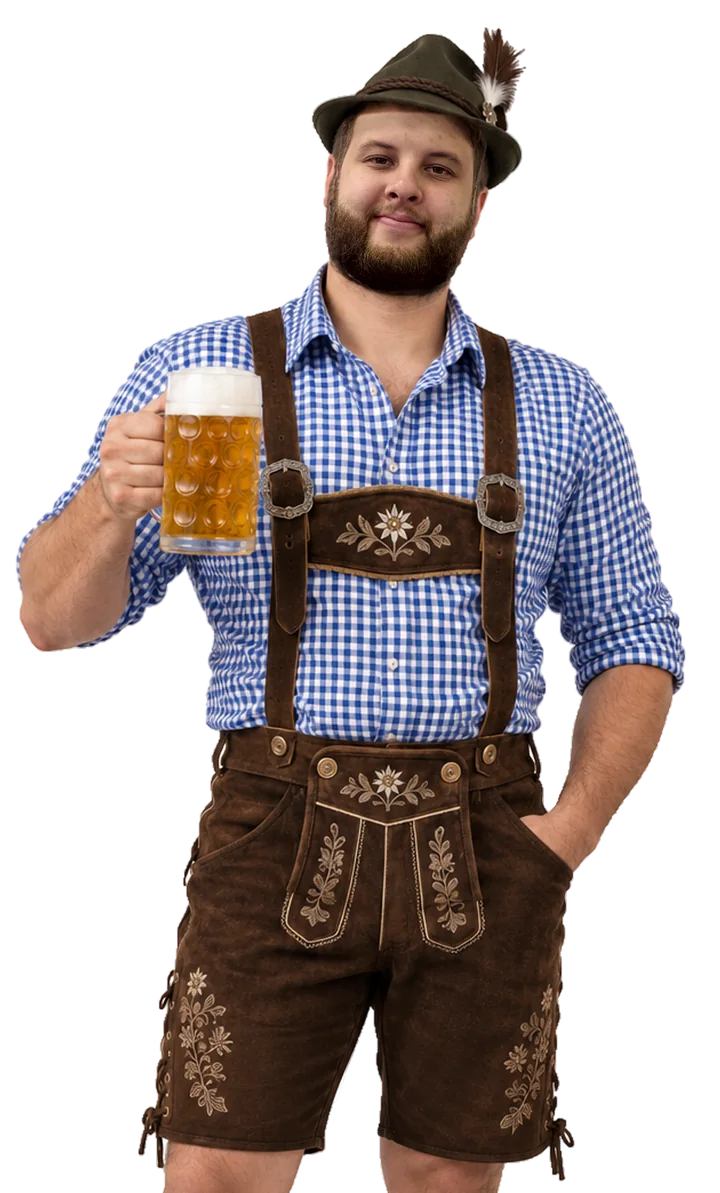
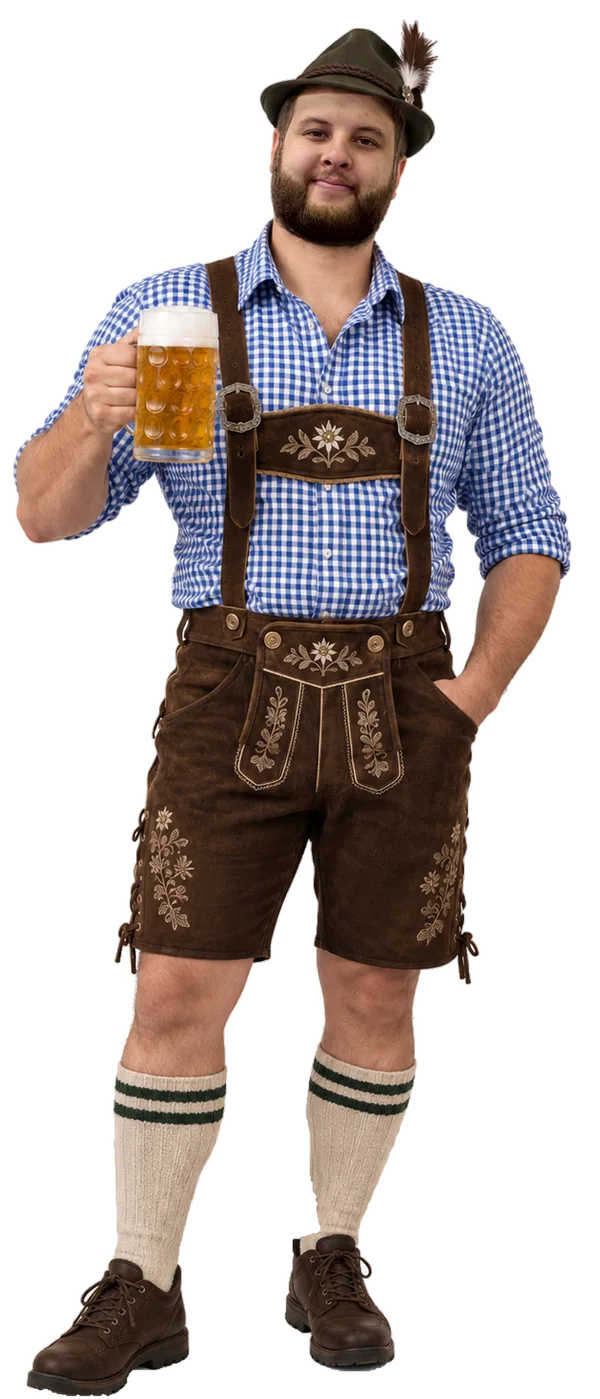
Шапка: фото в полный рост, вторая кружка без руки, готовность к замене фото
- Фото именинника показано целиком (от шляпы до ботинок) и вписано
  в высоту экрана на компьютере; под ботинками — мягкая тень.
- Убрана рука гостя, торчавшая из груди: при прокрутке въезжает только
  кружка со стеклянной ручкой и чокается с кружкой именинника.
- Положение кружки и пропорции фото вынесены в CSS-переменные
  (--ratio, --mug-x, --mug-y, --mug-w); режимы data-photo="framed"
  для фото с фоном и data-clink="off" для фото без кружки.
- README: раздел «Как заменить фото».

Claude-Session: https://claude.ai/code/session_01Wd8RQnCot6PS9kCBHuaYR1

diff --git a/index.html b/index.html
@@ -119,10 +119,18 @@ h2{font:800 clamp(1.875rem,3.6vw,2.6rem)/1.1 var(--f-display);letter-spacing:.01
 .hero-cta{display:flex;flex-wrap:wrap;align-items:center;gap:12px 18px}
 .cta-note{color:var(--muted);font-size:.9375rem;max-width:26ch}
 
-.stage{grid-area:stage;position:relative;justify-self:center;align-self:end;width:min(100%,430px,calc((100vh - 150px) / 1.657))}
-@supports (height:100svh){.stage{width:min(100%,430px,calc((100svh - 150px) / 1.657))}}
+/* Сцена с фото. Если поменяете фото, поправьте числа ниже:
+   --ratio — высота фото, делённая на ширину; --mug-x — правый край кружки, --mug-y — верх пены,
+   --mug-w — ширина кружки (в процентах от ширины и высоты фото). Подробно — в README. */
+.stage{grid-area:stage;position:relative;justify-self:center;align-self:end;--ratio:2.332;--mug-x:36.35%;--mug-y:21.9%;--mug-w:13.97%;width:min(100%,340px,calc((100vh - 130px) / var(--ratio)))}
+@supports (height:100svh){.stage{width:min(100%,340px,calc((100svh - 130px) / var(--ratio)))}}
+/* Фото с фоном (не вырезанное): data-photo="framed" — фото в белой рамке, без подставки. */
+.stage[data-photo="framed"] .coaster,.stage[data-photo="framed"] .duo::after{display:none}
+.stage[data-photo="framed"] .host{border:8px solid #FFFFFF;border-radius:6px;box-shadow:0 22px 40px -22px rgba(42,28,18,.55);transform:rotate(-2deg);animation:none}
+/* На фото нет кружки: data-clink="off" — без второй кружки и брызг, «Prost!» остаётся. */
+.stage[data-clink="off"] .guest,.stage[data-clink="off"] .splash{display:none}
 .stage::before{content:"";position:absolute;inset:-6% -14% 0;border-radius:50%;background:radial-gradient(closest-side,var(--glow),transparent);pointer-events:none}
-.coaster{position:absolute;left:-4%;top:7%;width:108%;aspect-ratio:1;border-radius:50%}
+.coaster{position:absolute;left:-12.5%;top:2.4%;width:125%;aspect-ratio:1;border-radius:50%}
 .c-rays{position:absolute;inset:7%;border-radius:50%;background:repeating-conic-gradient(from 0deg,#FFE6AE 0deg 7.5deg,#FFF6E3 7.5deg 15deg);box-shadow:inset 0 0 0 3px #FFFFFF,inset 0 0 40px rgba(217,137,18,.25);animation:spin 80s linear infinite}
 .c-ring{position:absolute;inset:0;width:100%;height:100%;overflow:visible}
 .c-band{fill:none;stroke:#1D62AE;stroke-width:30}
@@ -132,19 +140,22 @@ h2{font:800 clamp(1.875rem,3.6vw,2.6rem)/1.1 var(--f-display);letter-spacing:.01
 
 /* именинник (фото) и кружка гостя */
 .duo{position:relative;z-index:1;will-change:transform}
-.host{display:block;width:100%;height:auto;transform-origin:50% 100%;-webkit-mask-image:linear-gradient(to bottom,#000 85%,transparent 99%);mask-image:linear-gradient(to bottom,#000 85%,transparent 99%);animation:breathe 4.8s ease-in-out infinite}
+.duo::after{content:"";position:absolute;left:0;right:24%;bottom:-1.6%;height:3.2%;border-radius:50%;background:radial-gradient(closest-side,rgba(42,28,18,.3),transparent);z-index:-1}
+.host{display:block;width:100%;height:auto;transform-origin:50% 100%;animation:breathe 4.8s ease-in-out infinite}
 @keyframes breathe{0%,100%{transform:scale(1)}50%{transform:scale(1.008)}}
-.guest{position:absolute;left:34.4%;top:30.2%;width:28.3%;opacity:0;will-change:transform,opacity}
-.guest img{display:block;width:100%;height:auto;transform-origin:20% 30%;filter:drop-shadow(0 10px 12px rgba(42,28,18,.28))}
-.say{position:absolute;left:5%;top:16.5%;width:31%;height:auto;overflow:visible;transform:rotate(-6deg) scale(0);transform-origin:57% 96%;opacity:0;transition:transform .45s cubic-bezier(.3,1.6,.5,1),opacity .2s;pointer-events:none;filter:drop-shadow(0 8px 10px rgba(42,28,18,.3))}
+.guest{position:absolute;left:calc(var(--mug-x) - .6%);top:calc(var(--mug-y) + .5%);width:var(--mug-w);opacity:0;will-change:transform,opacity}
+.guest-in{position:relative;transform-origin:50% 100%;filter:drop-shadow(0 8px 10px rgba(42,28,18,.25))}
+.guest img{display:block;width:100%;height:auto}
+.guest .handle{position:absolute;left:93%;top:20%;width:42%;height:56%;overflow:visible}
+.say{position:absolute;left:-7%;top:calc(var(--mug-y) - 11.4%);width:44%;height:auto;overflow:visible;transform:rotate(-6deg) scale(0);transform-origin:57% 96%;opacity:0;transition:transform .45s cubic-bezier(.3,1.6,.5,1),opacity .2s;pointer-events:none;filter:drop-shadow(0 8px 10px rgba(42,28,18,.3))}
 .say text{font:400 44px/1 var(--f-fraktur);fill:#1D62AE}
-.splash{position:absolute;left:35.6%;top:31%;width:0;height:0}
+.splash{position:absolute;left:calc(var(--mug-x) - .2%);top:calc(var(--mug-y) + 1.2%);width:0;height:0}
 .splash i{position:absolute;left:0;top:0;width:var(--s,2.2cqw);height:var(--s,2.2cqw);margin:calc(var(--s,2.2cqw) / -2);border-radius:50%;background:#FFFDF6;box-shadow:0 0 0 1.5px rgba(42,28,18,.3);opacity:0}
 .splash i:nth-child(3n){background:#FFD25A}
 .stage{container-type:inline-size}
 .stage.is-prost .say{transform:rotate(-6deg) scale(1);opacity:1}
 .stage.is-prost .splash i{animation:splash .85s cubic-bezier(.2,.8,.3,1) both}
-.stage.is-prost .guest img{animation:clink .6s ease-out}
+.stage.is-prost .guest-in{animation:clink .6s ease-out}
 @keyframes splash{0%{opacity:1;transform:translate(0,0) scale(.3)}70%{opacity:1}100%{opacity:0;transform:translate(var(--dx),var(--dy)) scale(1)}}
 @keyframes clink{0%{transform:rotate(0)}30%{transform:rotate(-7deg)}60%{transform:rotate(3deg)}100%{transform:rotate(0)}}
 
@@ -160,7 +171,7 @@ h2{font:800 clamp(1.875rem,3.6vw,2.6rem)/1.1 var(--f-display);letter-spacing:.01
 
 @media (max-width:860px){
   .hero-grid{grid-template-columns:minmax(0,1fr);grid-template-areas:"copy" "stage" "facts";row-gap:18px}
-  .stage{width:min(86vw,380px);margin-top:4px}
+  .stage{width:min(74vw,300px);margin-top:4px}
   .hero-copy{align-self:start}
   .deco.d-opt{display:none}
 }
@@ -435,8 +446,11 @@ textarea.input{resize:vertical;min-height:104px}
         </svg>
       </div>
       <div class="duo" id="duo">
-        <img class="host" id="host" src="assets/host-tracht.webp" width="720" height="1193" alt="Именинник в баварском костюме: шляпа с пером, рубашка в клетку, кожаные шорты на подтяжках, в руке кружка пива" fetchpriority="high">
-        <div class="guest" id="guest" aria-hidden="true"><img src="assets/guest-mug.webp" width="260" height="307" alt=""></div>
+        <img class="host" id="host" src="assets/host-tracht.webp" width="600" height="1399" alt="Именинник в баварском костюме: шляпа с пером, рубашка в клетку, кожаные шорты на подтяжках, в руке кружка пива" fetchpriority="high">
+        <div class="guest" id="guest" aria-hidden="true"><div class="guest-in">
+          <img src="assets/guest-mug.webp" width="160" height="292" alt="">
+          <svg class="handle" viewBox="0 0 40 60" focusable="false"><path d="M2 6C26 4 34 16 34 30S26 56 2 54" fill="none" stroke="rgba(96,120,134,.55)" stroke-width="11" stroke-linecap="round"/><path d="M2 6C26 4 34 16 34 30S26 56 2 54" fill="none" stroke="rgba(244,250,252,.92)" stroke-width="7" stroke-linecap="round"/><path d="M6 10C24 10 29 20 29 30" fill="none" stroke="#FFFFFF" stroke-width="2" stroke-linecap="round"/></svg>
+        </div></div>
         <span class="splash" aria-hidden="true"><i style="--dx:-9cqw;--dy:-11cqw"></i><i style="--dx:-3cqw;--dy:-14cqw;--s:1.6cqw"></i><i style="--dx:4cqw;--dy:-12cqw"></i><i style="--dx:10cqw;--dy:-8cqw;--s:1.8cqw"></i><i style="--dx:-12cqw;--dy:-4cqw;--s:1.5cqw"></i><i style="--dx:12cqw;--dy:-1cqw"></i><i style="--dx:-7cqw;--dy:-16cqw;--s:1.3cqw"></i><i style="--dx:7cqw;--dy:-17cqw;--s:1.4cqw"></i><i style="--dx:1cqw;--dy:-19cqw;--s:1.2cqw"></i><i style="--dx:-14cqw;--dy:-9cqw;--s:1.2cqw"></i></span>
         <svg class="say" viewBox="0 0 170 94" aria-hidden="true" focusable="false"><path d="M16 4H154Q166 4 166 16V54Q166 66 154 66H118L97 90L101 66H16Q4 66 4 54V16Q4 4 16 4Z" fill="#FFFFFF" stroke="#2A1C12" stroke-width="3.5" stroke-linejoin="round"/><text x="85" y="49" text-anchor="middle" lang="de">Prost!</text></svg>
       </div>
@@ -701,13 +715,15 @@ var SHEET_ENDPOINT = '';
   var y0 = 0, y1 = 200, gx = 300, gy = 120, heroH = 800, lastP = -1, ticking = false, prost = false;
   function measure(){
     var vh = window.innerHeight, sy = window.scrollY || window.pageYOffset, r = stage.getBoundingClientRect();
-    var mugY = r.top + sy + r.height * .387;
+    var my = parseFloat(getComputedStyle(stage).getPropertyValue('--mug-y')) / 100 || .22;
+    var mx = parseFloat(getComputedStyle(stage).getPropertyValue('--mug-x')) / 100 || .36;
+    var mugY = r.top + sy + r.height * (my + .05);
     heroH = hero.offsetHeight;
     y1 = Math.max(150, mugY - vh * .42);
     y0 = Math.max(0, y1 - 300);
     if (y1 - y0 < 140) y1 = y0 + 140;
-    gx = Math.max(r.width * .7, window.innerWidth - r.left - r.width * .344 + 24);
-    gy = r.height * .18;
+    gx = Math.max(r.width * .8, window.innerWidth - r.left - r.width * mx + 24);
+    gy = r.height * .12;
   }
   function setProst(on){
     if (on === prost) return;
@@ -715,7 +731,7 @@ var SHEET_ENDPOINT = '';
   }
   function heroFrame(p){
     var e = 1 - Math.pow(1 - p, 3);
-    guest.style.transform = 'translate3d(' + ((1 - e) * gx).toFixed(1) + 'px,' + ((1 - e) * gy).toFixed(1) + 'px,0) rotate(' + (-8 + (1 - e) * 24).toFixed(2) + 'deg)';
+    guest.style.transform = 'translate3d(' + ((1 - e) * gx).toFixed(1) + 'px,' + ((1 - e) * gy).toFixed(1) + 'px,0) rotate(' + (-9 + (1 - e) * 26).toFixed(2) + 'deg)';
     guest.style.opacity = clamp(p * 3.5, 0, 1).toFixed(3);
     duo.style.transform = 'translate3d(0,' + (-12 * e).toFixed(1) + 'px,0)';
     if (p > .97) setProst(true); else if (p < .8) setProst(false);

diff --git a/README.md b/README.md
@@ -6,7 +6,7 @@
 
 ## Что на сайте
 
-- **Шапка.** Фото именинника в баварском костюме с кружкой (лицо взято с вашего фото) на «пивной подставке» с вращающейся надписью *Alles Gute zum Geburtstag · Prost · O'zapft is*. При прокрутке справа въезжает кружка гостя, кружки чокаются, всплывает «Prost!» и летят брызги пены. Прокрутка назад отматывает анимацию.
+- **Шапка.** Фото именинника в баварском костюме в полный рост, с кружкой в руке (лицо взято с вашего фото), на «пивной подставке» с вращающейся надписью *Alles Gute zum Geburtstag · Prost · O'zapft is*. При прокрутке справа въезжает вторая кружка, кружки чокаются, всплывает «Prost!» и летят брызги пены. Прокрутка назад отматывает анимацию.
 - **Анимации при прокрутке:** полоска-«пиво» сверху показывает, сколько пролистано; блоки плавно появляются; брецели, хмель и ромбики плывут с разной скоростью; на билете падает штамп *Reserviert*; гирлянда флажков качается; идёт отсчёт до праздника.
 - **Анкета по шагам** с кружкой, которая наполняется по мере ответов:
 
@@ -27,8 +27,8 @@
 | Файл | Что это |
 |---|---|
 | `index.html` | Сам сайт: оформление, анимации и анкета |
-| `assets/host-tracht.webp` | Фото именинника в костюме, без фона |
-| `assets/guest-mug.webp` | Кружка гостя для анимации «чокнуться» |
+| `assets/host-tracht.webp` | Фото именинника в костюме в полный рост, без фона |
+| `assets/guest-mug.webp` | Вторая кружка для анимации «чокнуться» |
 | `assets/og.jpg` | Картинка-превью, которую Telegram и WhatsApp показывают под ссылкой |
 | `apps-script.gs` | Код для Google Apps Script: принимает анкеты и пишет их в таблицу |
 | `.github/workflows/static.yml` | Публикация сайта на GitHub Pages при изменениях в `main` |
@@ -128,9 +128,26 @@
 - **Текст или оформление сайта.** Поправьте `index.html` (на GitHub — карандаш → Commit в `main`). Через 1–2 минуты сайт обновится.
 - **Вопросы и варианты ответов.** Списки вариантов — в `index.html`, в блоке `АНКЕТА` (массивы `BEER`, `LIGHT`, `STRONG` и описание шагов `STEPS`). Те же варианты повторены в начале `apps-script.gs` — по ним считается «Сводка». Поменяли вариант — поменяйте в обоих местах, обновите развёртывание (пункт ниже) и ещё раз запустите `setup`: он пересоберёт «Сводку», ответы не тронет.
 - **Код скрипта.** После правки и сохранения: **Начать развёртывание → Управление развёртываниями → карандаш** → «Версия»: **Новая версия** → **Развернуть**. URL останется прежним. Если вместо этого сделать «Новое развёртывание», URL сменится, и его придётся заново вставить в `index.html`.
-- **Фото.** Картинки лежат в `assets/`. Если поменяете фото, обновите и превью `assets/og.jpg` — Telegram запоминает превью ссылки, поэтому новое может появиться не сразу.
+- **Фото.** См. раздел «Как заменить фото» ниже.
 - **Сломалась «Сводка»** (например, случайно стёрли формулы): запустите `setup` ещё раз.
 - **Время в таблице сдвинуто.** В таблице: Файл → Настройки → Часовой пояс.
+
+## Как заменить фото
+
+Проще всего — прислать новое фото Claude: он вставит его и подгонит анимацию. Если хотите сами:
+
+1. **Какое фото подойдёт.** В полный рост, с кружкой в руке. Лучше всего — PNG или WebP с прозрачным фоном (тогда фигура встанет на «пивную подставку»). Подойдёт и обычное фото с фоном — см. пункт 4.
+2. **Куда положить.** Замените файл `assets/host-tracht.webp` (или положите свой файл в `assets/` и поменяйте имя в `index.html` в строке `<img class="host" … src="assets/host-tracht.webp" …>`). В той же строке поправьте `width` и `height` на размеры нового фото в пикселях.
+3. **Подогнать анимацию.** В `index.html` найдите строку, которая начинается с `.stage{grid-area:stage`, и поправьте числа:
+   - `--ratio` — высота фото, делённая на ширину (например, 1400 / 600 = `2.333`);
+   - `--mug-x` — где правый край кружки, в процентах от ширины фото;
+   - `--mug-y` — где верх пены, в процентах от высоты фото;
+   - `--mug-w` — ширина кружки, в процентах от ширины фото.
+
+   По этим числам вторая кружка подъезжает и чокается, а рядом всплывают «Prost!» и брызги.
+4. **Фото с фоном.** Добавьте `data-photo="framed"` в строку `<div class="stage" id="stage">` — фото встанет в белую рамку, без подставки.
+5. **На фото нет кружки.** Добавьте туда же `data-clink="off"` — вторая кружка и брызги пропадут, «Prost!» останется.
+6. **Превью ссылки.** Картинку для Telegram и WhatsApp (`assets/og.jpg`, 1200×630) тоже стоит обновить. Telegram запоминает превью ссылки, поэтому новое может появиться не сразу.
 
 ## Если анкеты не доходят
 
